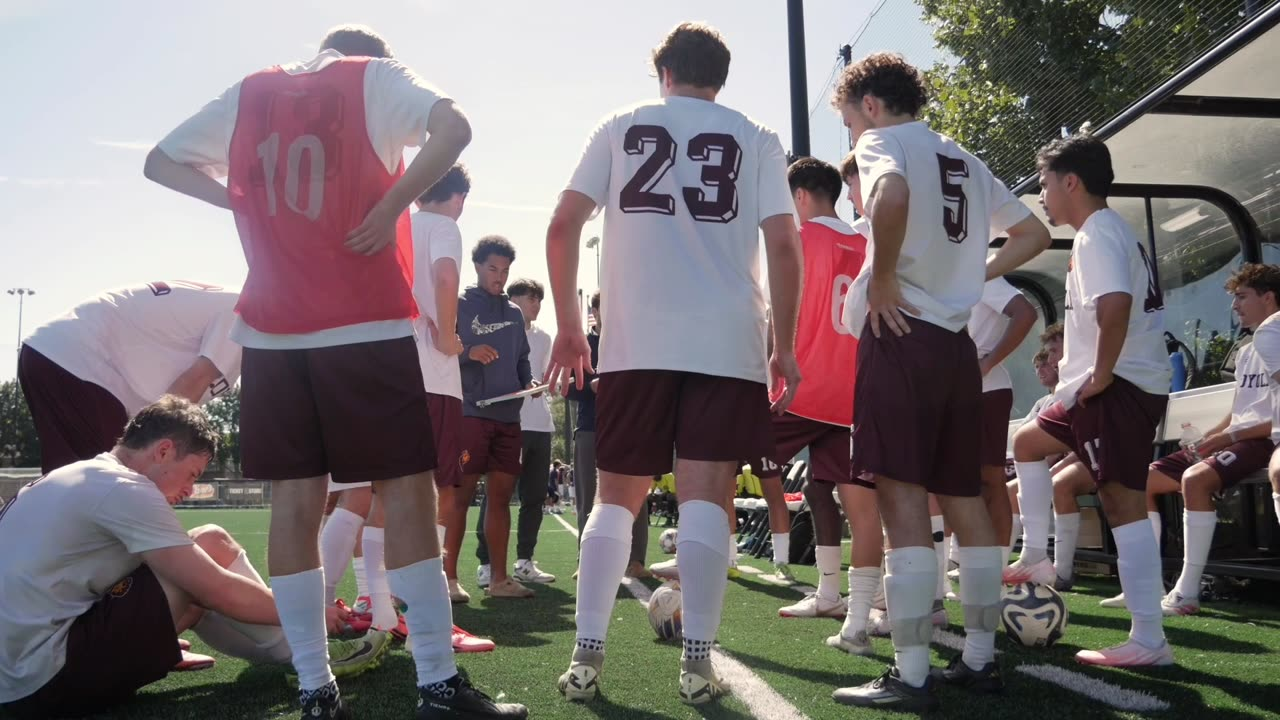
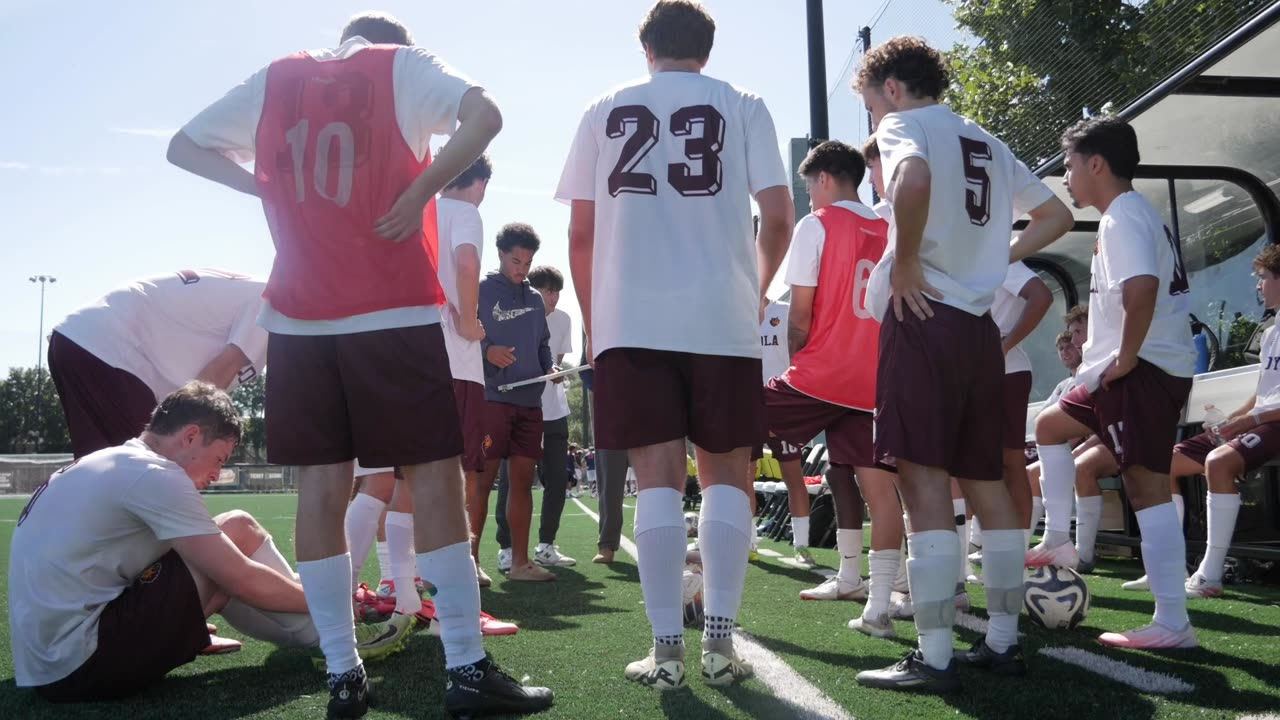
Use the H.264 soccer video, add its title, and size the video box like the blank boxes
Claude-Session: https://claude.ai/code/session_012doww6FyTtxXFFgc2YjrpC

diff --git a/app/ProjectVideo.js b/app/ProjectVideo.js
@@ -27,20 +27,22 @@ export default function ProjectVideo({ src, poster, title }) {
 
   return (
     <>
-      <button
-        type="button"
-        className="project-media project-video"
-        onClick={() => setOpen(true)}
-        aria-label={title ? `Play ${title}` : 'Play video'}
-      >
+      <div className="project-media project-video">
         {poster ? (
           // eslint-disable-next-line @next/next/no-img-element
           <img src={poster} alt="" loading="lazy" />
         ) : (
           <video src={`${src}#t=0.1`} preload="metadata" muted playsInline tabIndex={-1} />
         )}
-        <span className="play-label">Play</span>
-      </button>
+        <button
+          type="button"
+          className="play-label"
+          onClick={() => setOpen(true)}
+          aria-label={title ? `Play ${title}` : 'Play video'}
+        >
+          Play
+        </button>
+      </div>
 
       {open && (
         <div className="video-modal" role="dialog" aria-modal="true" onClick={() => setOpen(false)}>

diff --git a/app/globals.css b/app/globals.css
@@ -166,19 +166,14 @@ a {
 
 .project-video {
   position: relative;
-  display: block;
-  width: 100%;
-  padding: 0;
   overflow: hidden;
   background: #000;
-  cursor: pointer;
-  font: inherit;
-  color: inherit;
 }
 
 .project-video img,
 .project-video video {
-  display: block;
+  position: absolute;
+  inset: 0;
   width: 100%;
   height: 100%;
   object-fit: cover;
@@ -190,17 +185,27 @@ a {
   inset: 0;
   display: grid;
   place-items: center;
+  width: 100%;
+  height: 100%;
+  margin: 0;
+  padding: 0;
+  border: 0;
+  border-radius: 0;
+  -webkit-appearance: none;
+  appearance: none;
   background: rgba(0, 0, 0, 0.45);
   color: #f3efe9;
+  font: inherit;
   font-size: 1.1rem;
   letter-spacing: 0.3em;
   text-transform: uppercase;
+  cursor: pointer;
   opacity: 0;
   transition: opacity 0.2s ease;
 }
 
 .project-video:hover .play-label,
-.project-video:focus-visible .play-label {
+.play-label:focus-visible {
   opacity: 1;
 }
 

diff --git a/app/projects.js b/app/projects.js
@@ -9,7 +9,8 @@ export const MIN_PROJECTS = 4;
 export const projects = {
   sports: [
     {
-      video: 'https://yruexne8z4cwufst.public.blob.vercel-storage.com/LUC%20Club%20Soccer%20vs%20UofI.mov',
+      video: 'https://yruexne8z4cwufst.public.blob.vercel-storage.com/Club%20Soccer%20vs%20UofI%20264.mov',
+      title: 'Loyola Club Soccer vs University of Illinois',
       poster: '/projects/luc-soccer-vs-uofi.jpg',
     },
   ],
